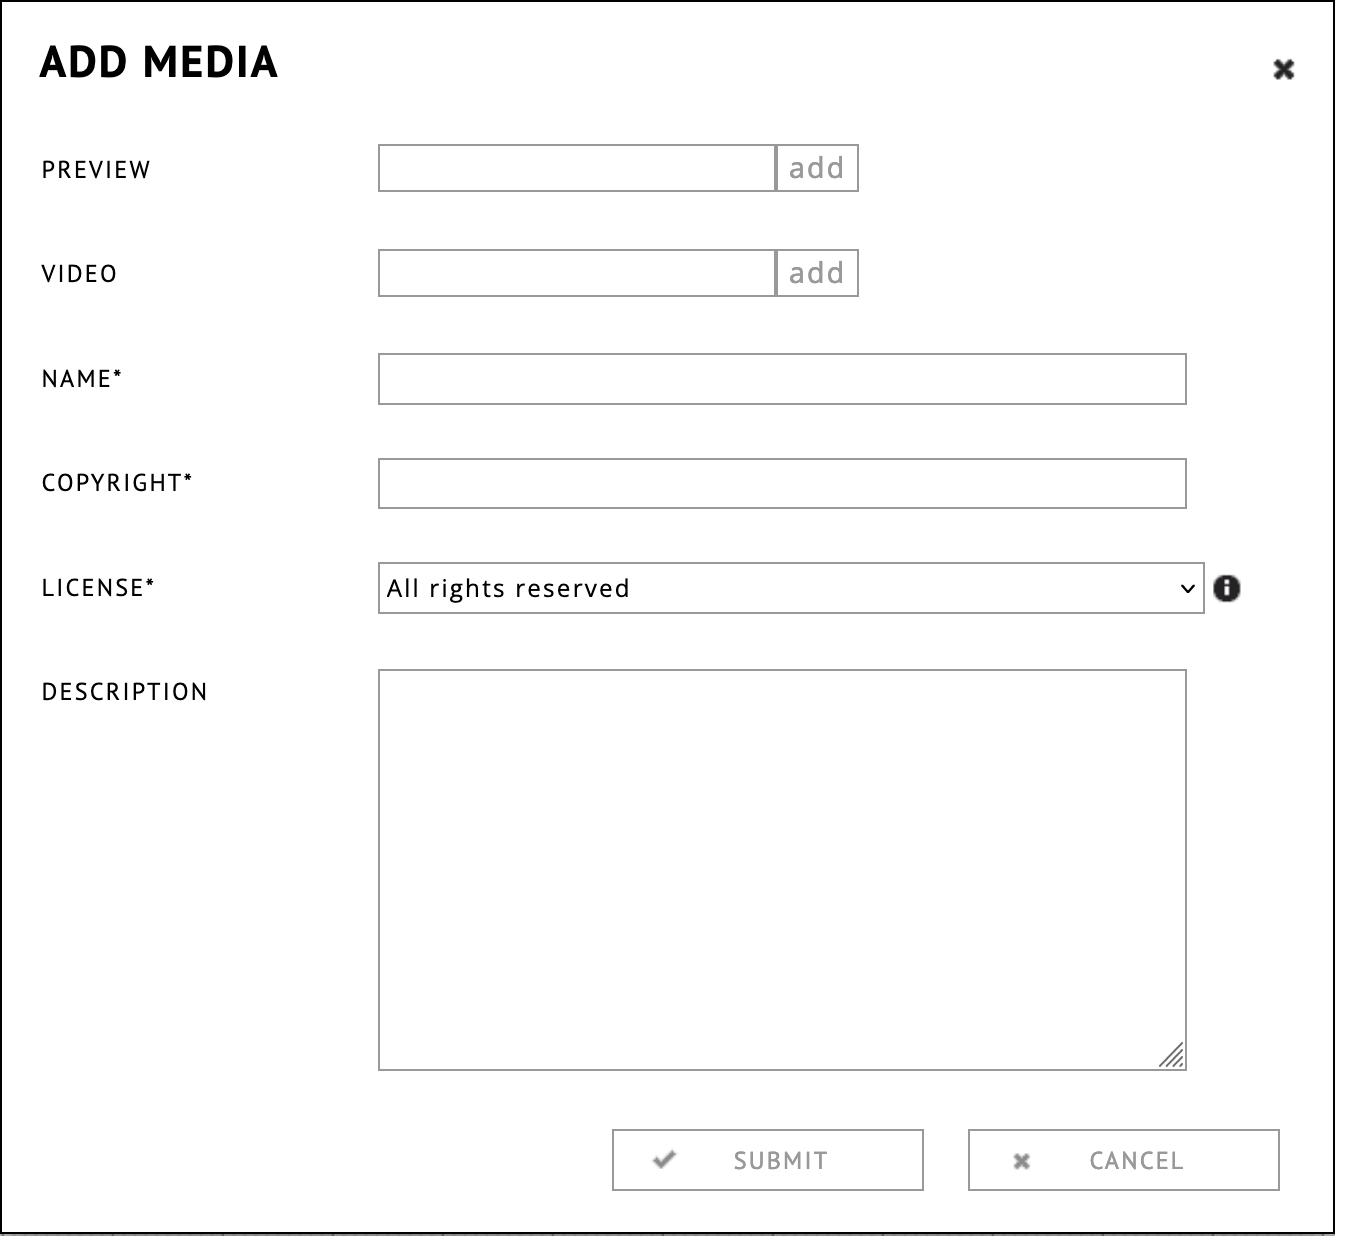
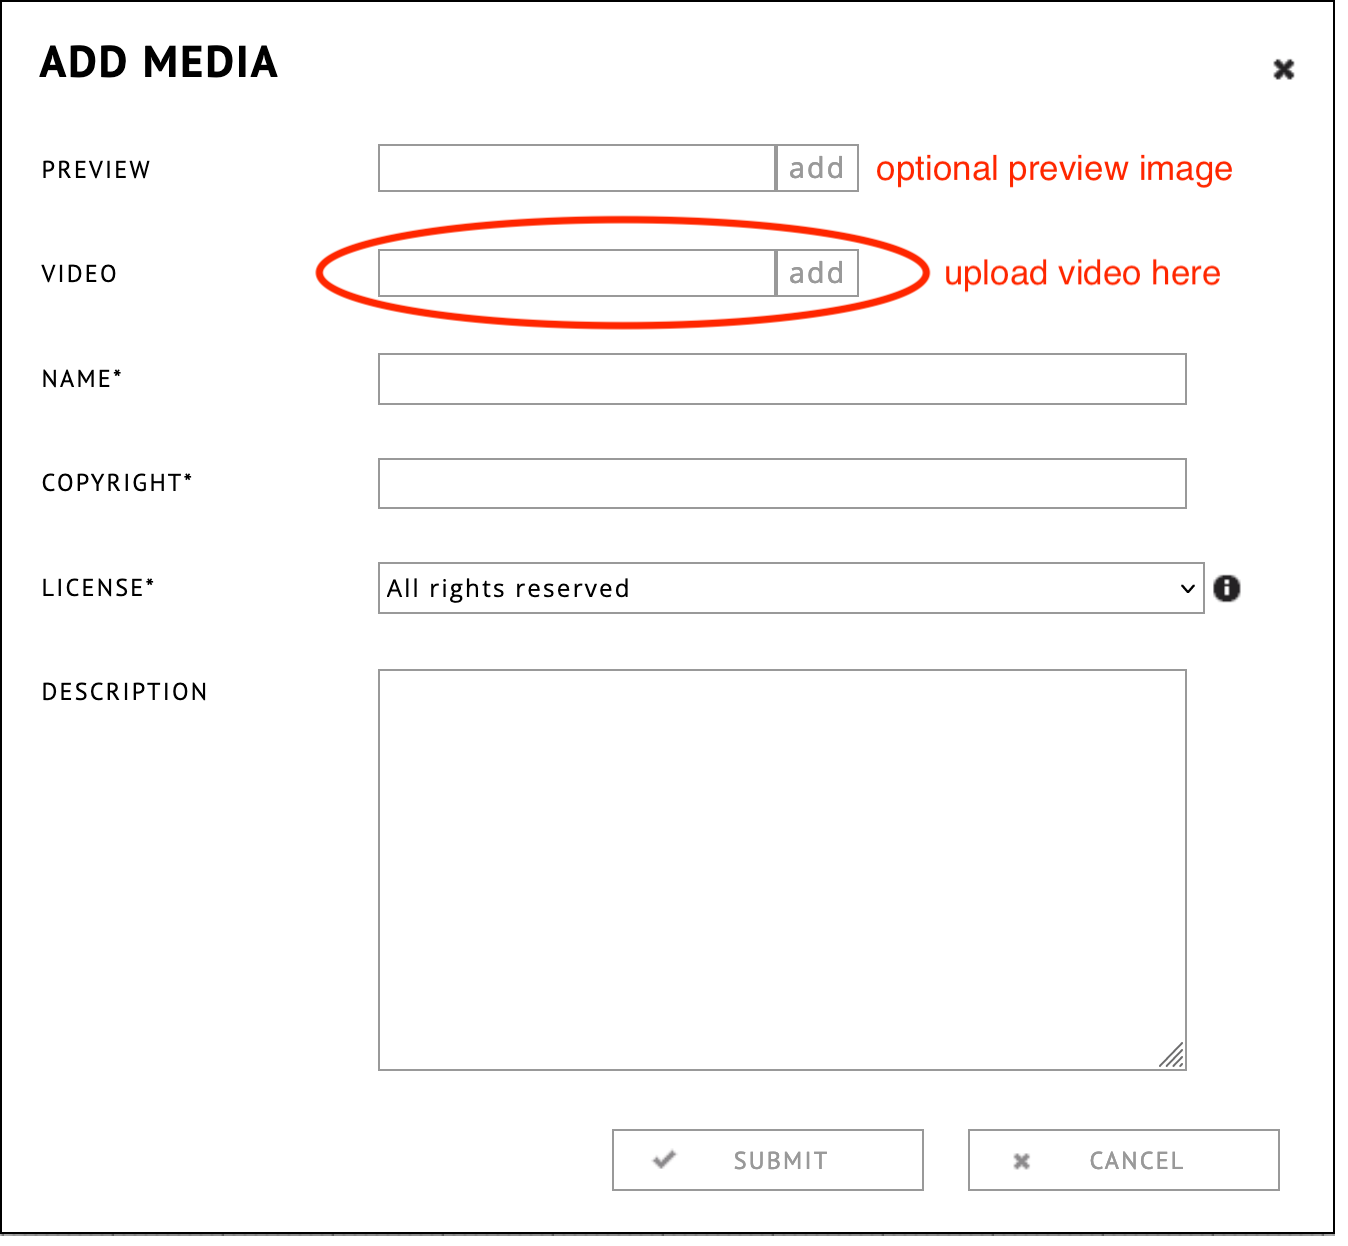
Fixed video tool docs

diff --git a/index.html b/index.html
@@ -1764,19 +1764,19 @@ from the tool bar and dropping it onto the weave or block.</p>
 <p>In the dialog box that appears you have the possibility to add
 (i.e. upload) items from your computer or select items from the “simple
 media” or media sets.</p>
+<p>If you choose “add media”, you will see the dialog below. This dialog
+contains both a <strong>preview</strong> and <strong>video</strong>
+field. The <strong>preview</strong> field, which controls the image that
+is shown before playback, is optional: if you only provide a
+<strong>video</strong>, the preview image will be generated from the
+first frame. You can later also select different images to function as a
+preview image. In that case, these images have to be part of your
+<strong>simple media</strong> or <strong>media sets</strong>.</p>
 <figure>
 <img loading="lazy" src="images/add_video_file.png" title="upload video dialog"
 alt="Dialog for adding a new file" />
 <figcaption aria-hidden="true">Dialog for adding a new file</figcaption>
 </figure>
-<p>When uploading a new video file, you will see both a
-<strong>preview</strong> and <strong>video</strong> field. The
-<strong>preview</strong> field, which controls the image that is shown
-before playback, is optional: if you only provide a
-<strong>video</strong>, the preview image will be generated from the
-first frame. You can later also select different images to function as a
-preview image. In that case, these images have to be part of your
-<strong>simple media</strong> or <strong>media sets</strong>.</p>
 <p>At the moment, the RC supports the following formats: <em>avi, mov,
 mp4, mpg</em> video container formats; <em>dv1394, h.264, mpeg2, mpeg1,
 mjepeg</em> video codec formats. Both VBR and CBR are supported.</p>

diff --git a/03-A-tools-1.md b/03-A-tools-1.md
@@ -490,9 +490,9 @@ In the dialog box that appears you have the possibility to add
 (i.e. upload) items from your computer or select items from the
 "simple media" or media sets. 
 
-![Dialog for adding a new file](images/add_video_file.png "upload video dialog")
+If you choose "add media", you will see the dialog below. This dialog contains both a __preview__ and __video__ field. The __preview__ field, which controls the image that is shown before playback, is optional: if you only provide a __video__, the preview image will be generated from the first frame. You can later also select different images to function as a preview image. In that case, these images have to be part of your __simple media__ or __media sets__.
 
-When uploading a new video file, you will see both a __preview__ and __video__ field. The __preview__ field, which controls the image that is shown before playback, is optional: if you only provide a __video__, the preview image will be generated from the first frame. You can later also select different images to function as a preview image. In that case, these images have to be part of your __simple media__ or __media sets__.
+![Dialog for adding a new file](images/add_video_file.png "upload video dialog")
 
  At the moment, the RC supports the following
 formats: *avi, mov, mp4, mpg* video container formats; *dv1394, h.264,
